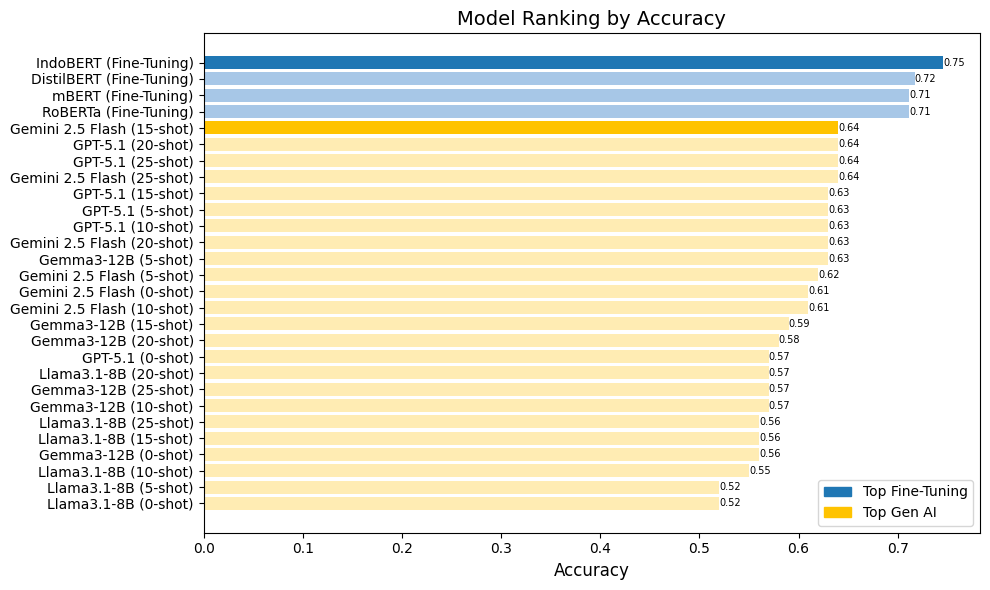
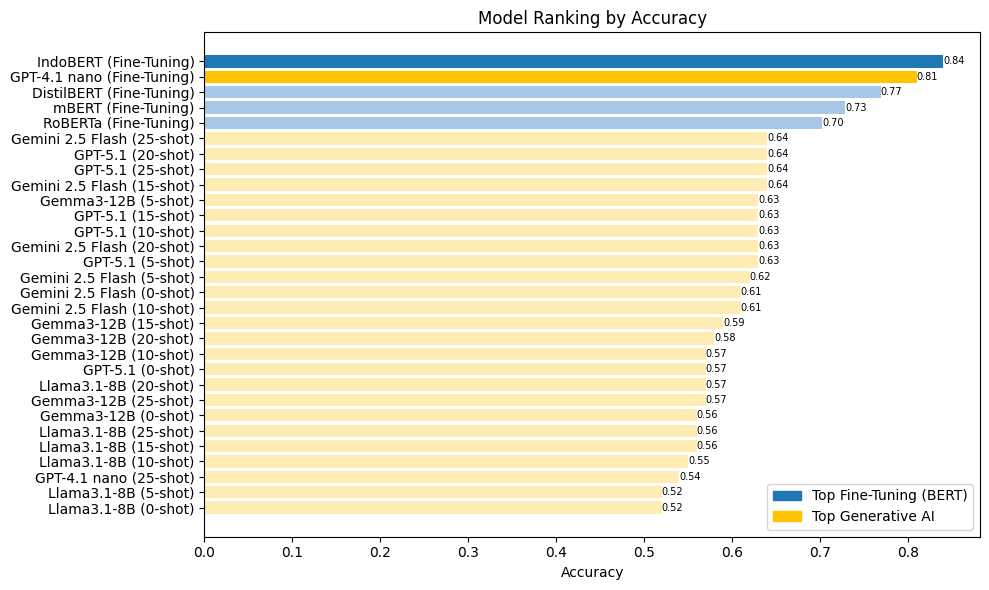
fix analisis page in streamlit

Changed region(s): [[0.0, 0.0915, 1.0, 0.9763], [0.2123, 0.0, 0.9707, 0.061], [0.182, 0.9153, 0.2123, 0.9458]]

diff --git a/streamlit/app.py b/streamlit/app.py
@@ -394,6 +394,11 @@ def model_analysis_page():
     st.image("https://raw.githubusercontent.com/RasyadBima15/Multiclass-Emotion-Classification-on-Indonesian-Product-Reviews/main/streamlit/assets/loss distilbert.png", caption="Loss & F1-Score per Epoch - DistilBERT")
     st.image("https://raw.githubusercontent.com/RasyadBima15/Multiclass-Emotion-Classification-on-Indonesian-Product-Reviews/main/streamlit/assets/loss mbert.png", caption="Loss & F1-Score per Epoch - mBERT")
 
+    st.divider()
+
+    st.subheader("📉 Grafik Loss Fine-Tuning GPT")
+    st.image("https://raw.githubusercontent.com/RasyadBima15/Multiclass-Emotion-Classification-on-Indonesian-Product-Reviews/main/streamlit/assets/fine tuning gpt loss.png", caption="Loss per Epoch - Fine-Tuned GPT-4.1 nano")
+
     # ===== BEST MODEL SUMMARY =====
     st.markdown("---")
     st.subheader("🏆 Best Model Summary")
@@ -401,17 +406,17 @@ def model_analysis_page():
     st.markdown("""
     #### **🔥 Model Terbaik: IndoBERT**
     Berdasarkan perbandingan keseluruhan metrik efektivitas, **Model IndoBERT menjadi model terbaik** dengan hasil:
-    - **F1-Score: 0.75**
-    - **Akurasi: 0.75**
+    - **F1-Score: 0.84**
+    - **Akurasi: 0.84**
 
-    Disusul oleh **DistilBERT** pada peringkat kedua dengan hasil:
-    - **F1-Score: 0.72**
-    - **Akurasi: 0.72**
+    Disusul oleh **Fine-Tuned GPT-4.1 nano** pada peringkat kedua dengan hasil:
+    - **F1-Score: 0.81**
+    - **Akurasi: 0.81**
 
-    Meskipun berada di posisi kedua secara efektivitas, **DistilBERT unggul dalam aspek efisiensi** (latensi lebih rendah & throughput lebih tinggi). 
-    Namun, **selisih efisiensinya tidak terlalu jauh dibandingkan IndoBERT**, sehingga keduanya tetap kompetitif untuk penggunaan skala besar.
+    **DistilBERT** unggul dalam aspek efisiensi (latensi lebih rendah & throughput lebih tinggi). 
+    Namun, selisih efisiensinya tidak terlalu jauh dibandingkan **IndoBERT**, sehingga keduanya tetap kompetitif untuk penggunaan skala besar.
 
-    #### 🤖 Performa Model Generative AI
+    #### 🤖 Performa Model Generative AI (Prompt-Based)
     Model Generative AI menunjukkan performa yang jauh di bawah model Fine-Tuning BERT.
     Model terbaik pada kelompok ini adalah:
 
@@ -419,7 +424,7 @@ def model_analysis_page():
       **F1-Score: 0.64**  
       **Akurasi: 0.64**
 
-    Selisih performanya relatif besar dibanding model fine-tuning BERT, sehingga untuk kasus ini **metode fine-tuning jauh lebih unggul**.
+    Selisih performanya relatif besar dibanding model fine-tuning BERT, sehingga untuk kasus ini **metode fine-tuning khususnya model IndoBERT jauh lebih unggul**.
     """)
 
 def predict_single_page():
